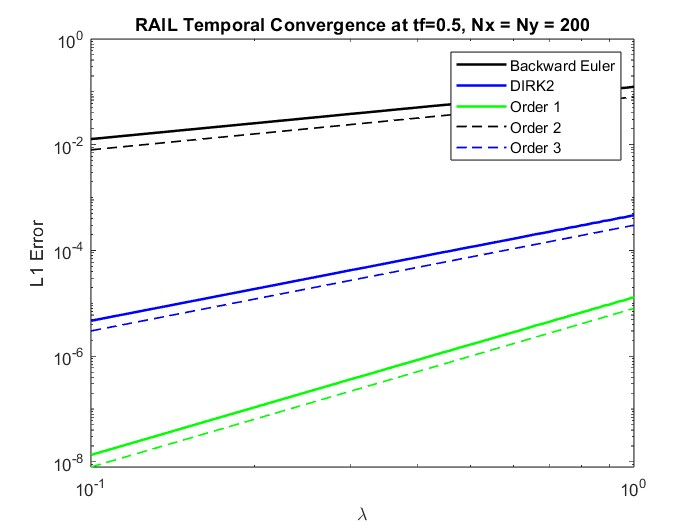
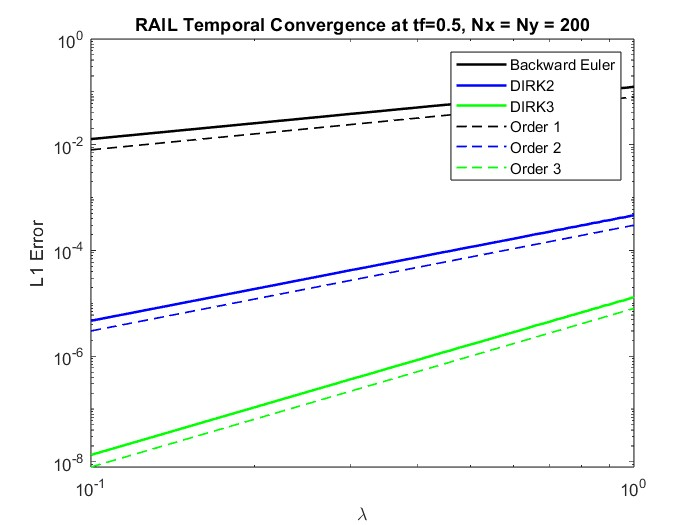
RAIL

diff --git a/RAIL/main.m b/RAIL/main.m
@@ -41,16 +41,16 @@ end
 % colorbar;
 % shading flat; % removes gridlines
 % xlabel('X'); ylabel('Y'); zlabel('U(X, Y)'); title([sprintf('U_{Exact} at time %s', num2str(tf, 4))]);
-%%
+
 figure(3); clf;
 loglog(lambdavals, errors(:, 1), 'black-', 'LineWidth', 1.5); hold on; % B. Euler
 loglog(lambdavals, errors(:, 2), 'blue-', 'LineWidth', 1.5); % DIRK2
-loglog(lambdavals, errors(:, 3), 'green-', 'LineWidth', 1.5); % DIRK2
+loglog(lambdavals, errors(:, 3), 'green-', 'LineWidth', 1.5); % DIRK3
 loglog(lambdavals, 0.08*lambdavals, 'black--', 'LineWidth', 1); % Order 1
 loglog(lambdavals, 0.0003*lambdavals.^2, 'blue--', 'LineWidth', 1); % Order 2
 loglog(lambdavals, 0.000008*lambdavals.^3, 'green--', 'LineWidth', 1); % Order 3
 title('RAIL Temporal Convergence at tf=0.5, Nx = Ny = 200'); xlabel('\lambda'); ylabel('L1 Error');
-legend('Backward Euler', 'DIRK2', 'Order 1', 'Order 2', 'Order 3');
+legend('Backward Euler', 'DIRK2', 'DIRK3', 'Order 1', 'Order 2', 'Order 3');
 
 %% TEST 2 -- Rank Test
 clc; clear variables; close all;

diff --git a/RAIL/RAIL_DIRK3_timestep.m b/RAIL/RAIL_DIRK3_timestep.m
@@ -41,7 +41,7 @@ function [Vx3, S3, Vy3, r3] = RAIL_DIRK3_timestep(Vx0, S0, Vy0, dt, Dxx, Dyy, to
 
     % Stage 3:
     % Predict V_dagger using B. Euler
-    [Vx_dagger3, ~, Vy_dagger3, ~] = RAIL_B_Euler_timestep(Vx2, S2, Vy2, dt, Dxx, Dyy, tolerance);
+    [Vx_dagger3, ~, Vy_dagger3, ~] = RAIL_B_Euler_timestep(Vx0, S0, Vy0, dt, Dxx, Dyy, tolerance);
     Y2 = (((Dxx*Vx2*S2*(Vy2')) + (Vx2*S2*((Dyy*Vy2)'))));
     W2 = (Vx0*S0*(Vy0')) + (beta1*dt*Y1) + (beta2*dt*Y2);
       
